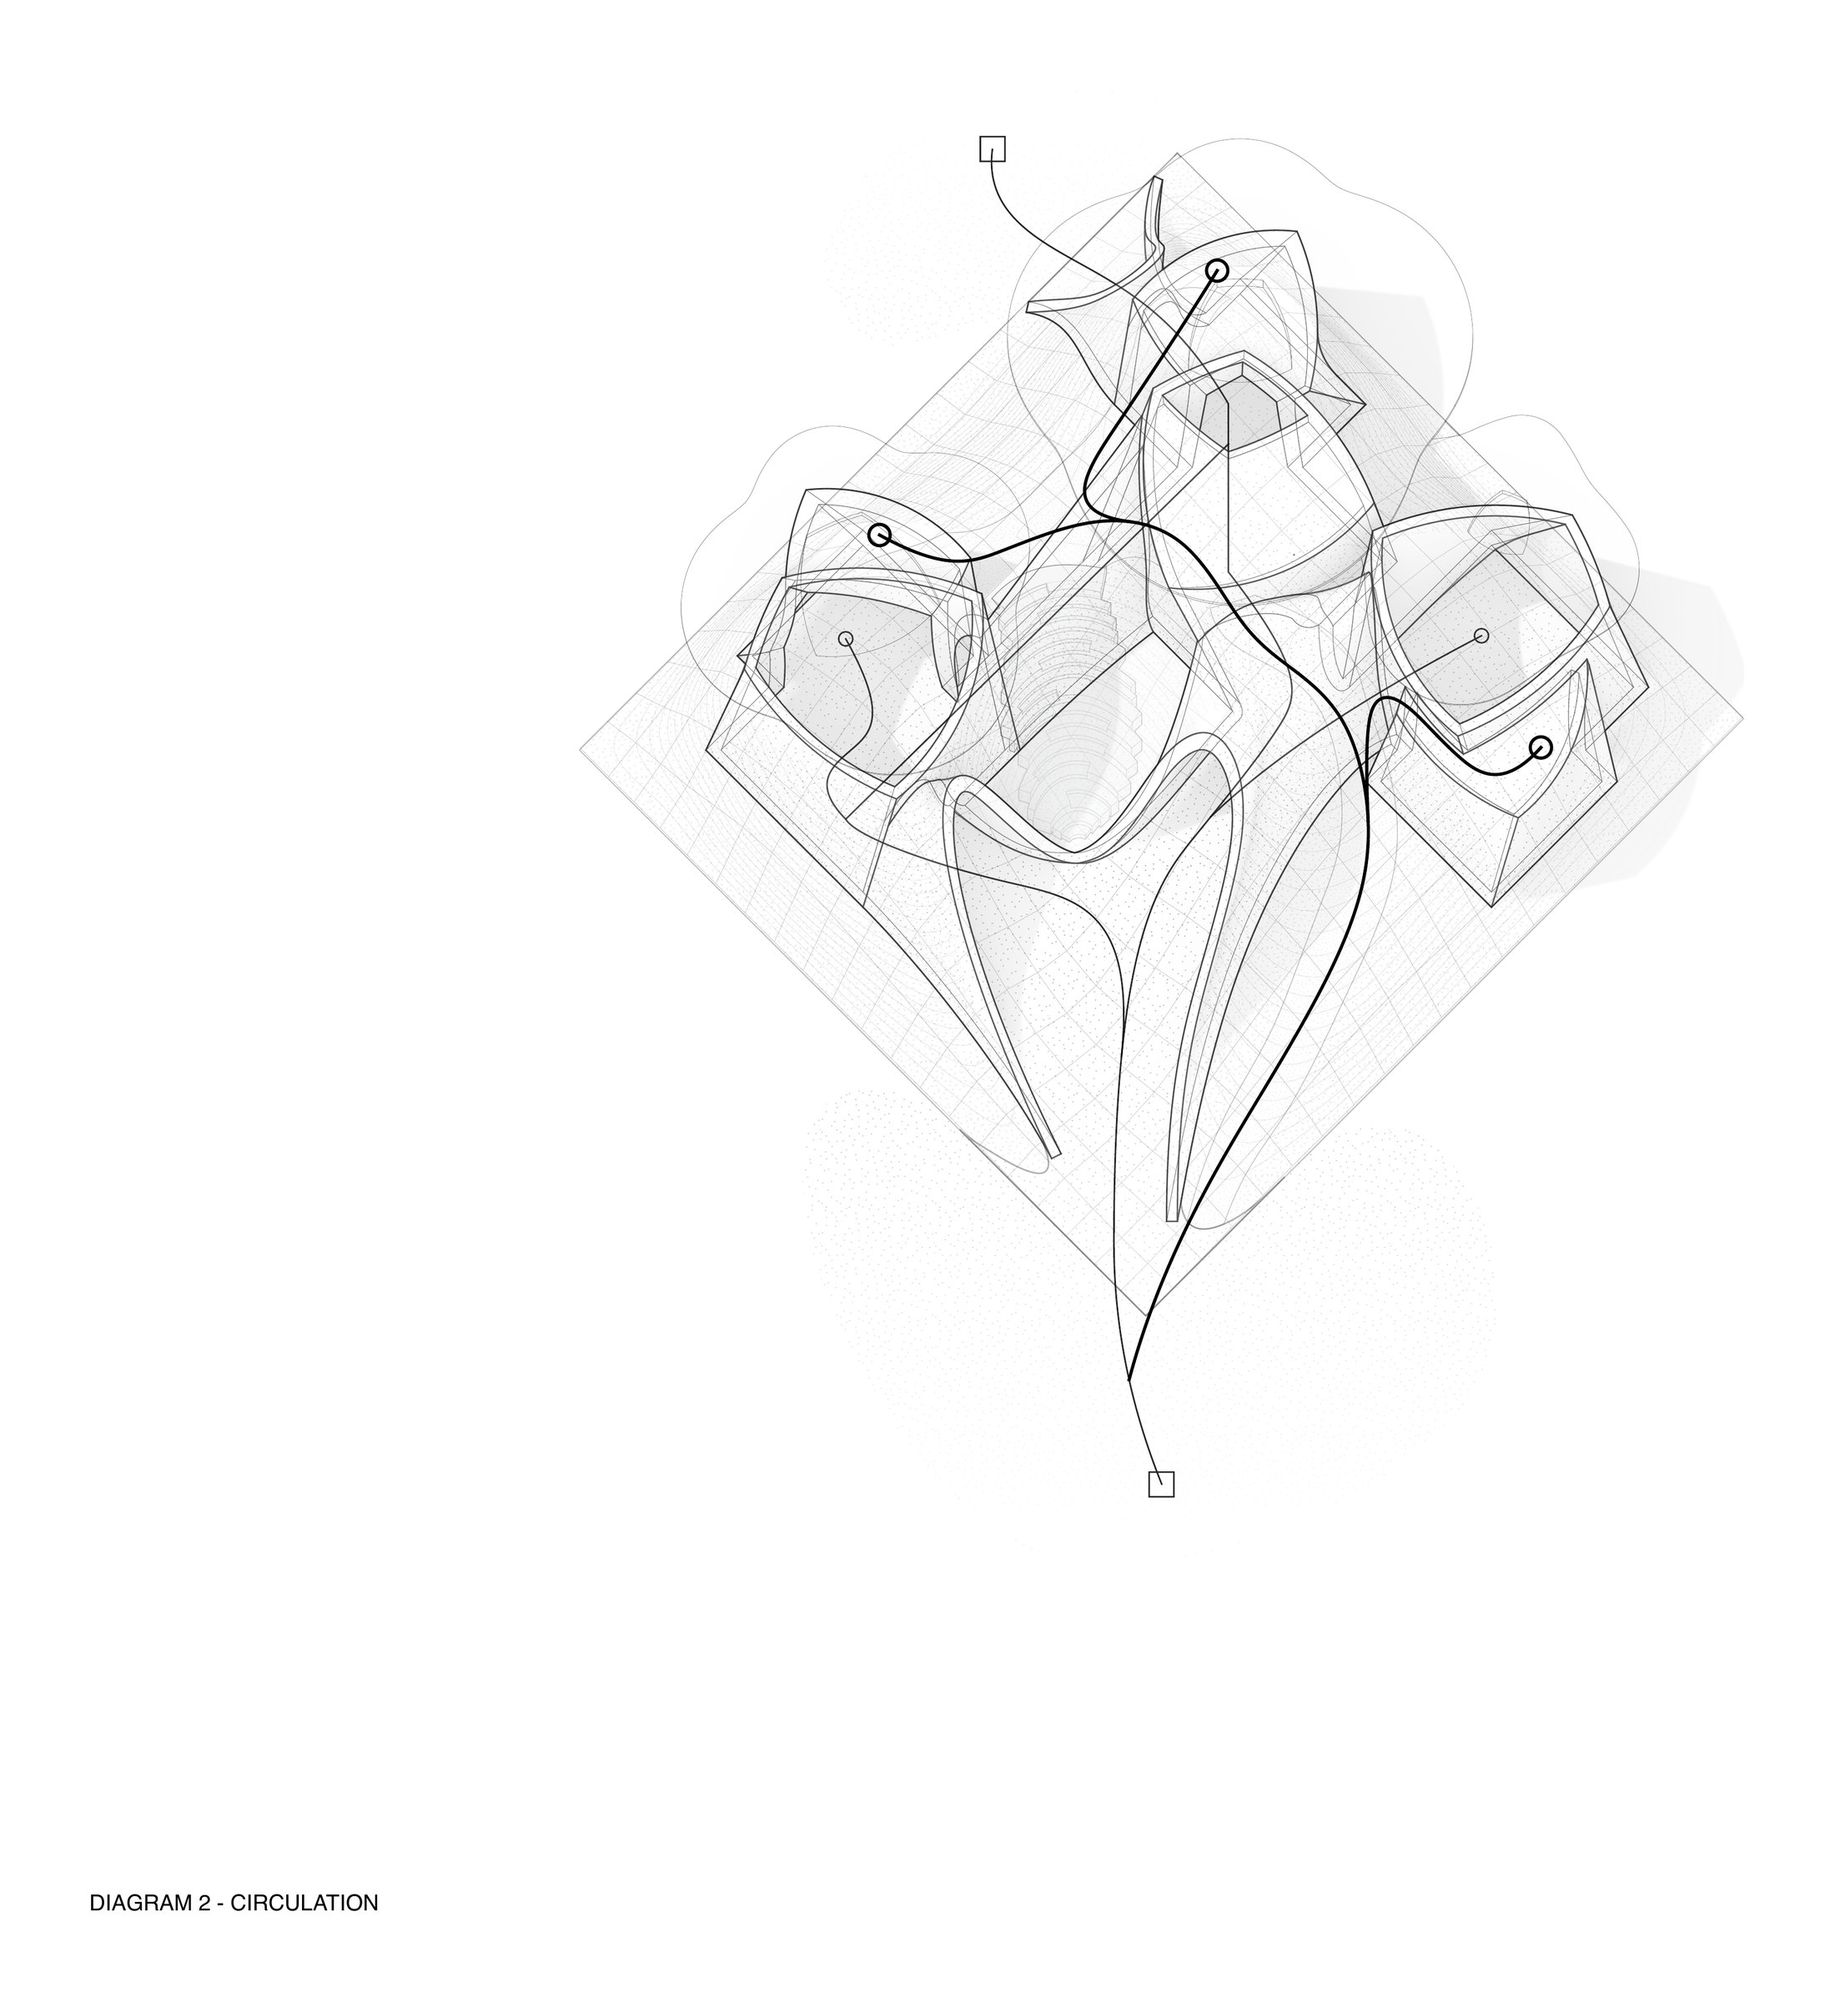
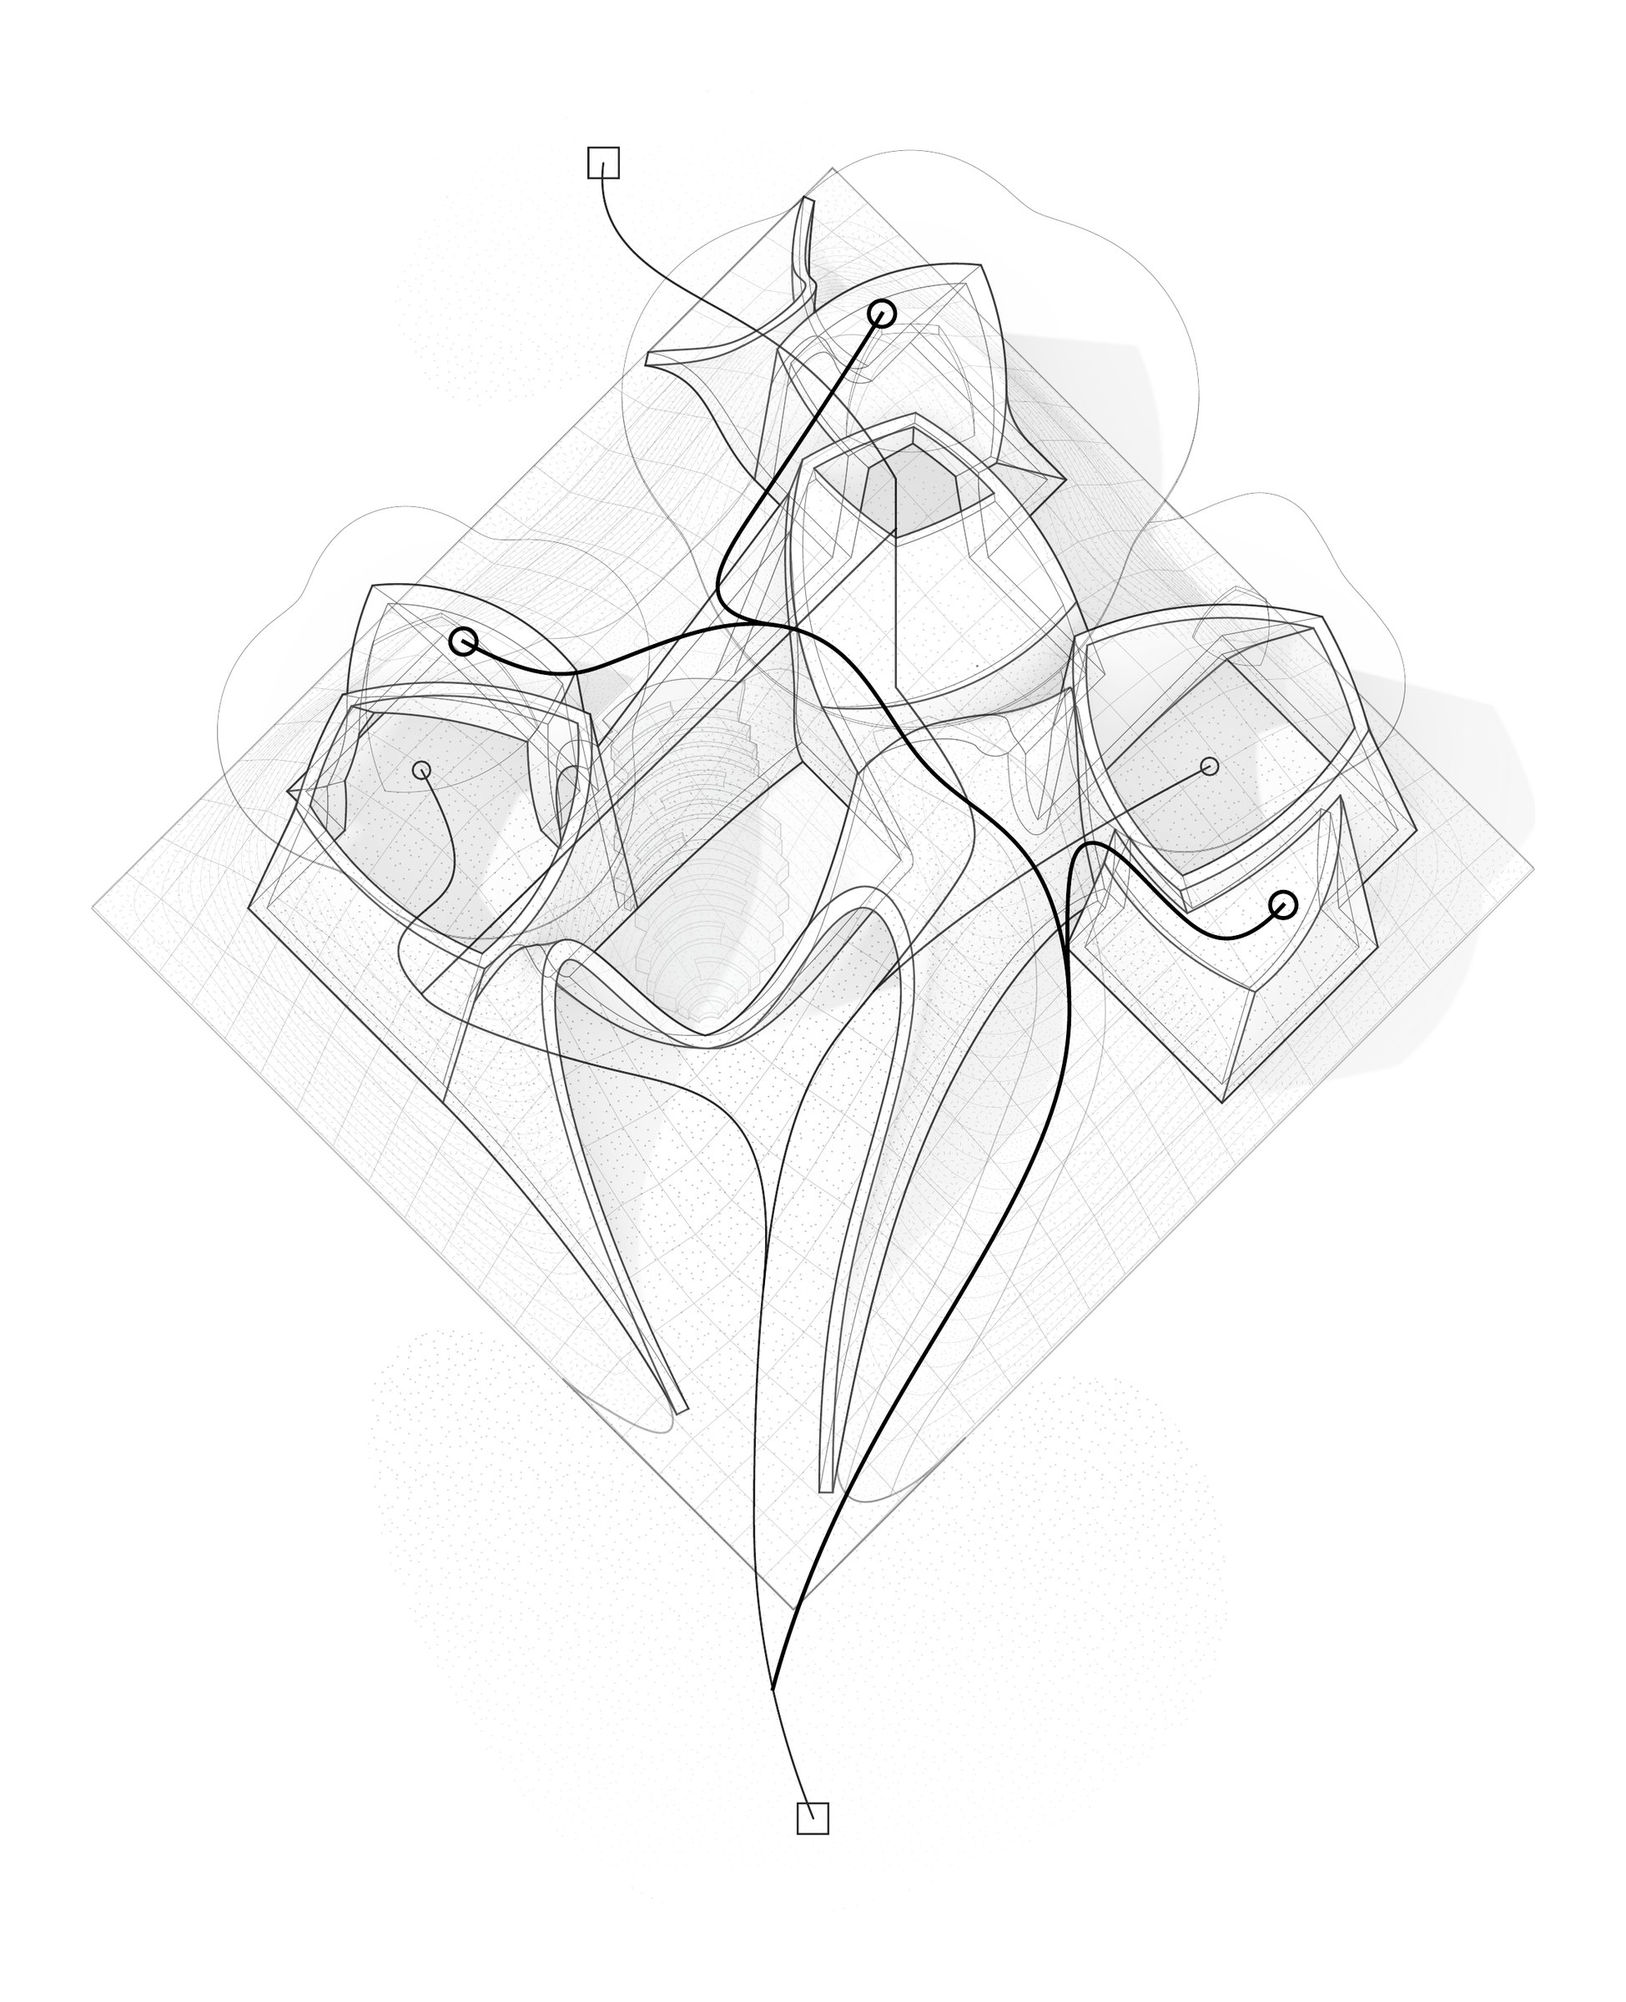
Remove labels from Menil diagrams and center them
Claude-Session: https://claude.ai/code/session_014P4HtxNjHqz1LRypPXgB5u

diff --git a/index.html b/index.html
@@ -374,7 +374,7 @@ const OTHER = [
 
 /* ---------- Rendering ---------- */
 /* Width / height of each image, used to give photos in the same row the same height. */
-const DIMS = {"cover-totem-bw": 0.713, "ext-composite-map": 1.016, "ext-hero": 1.001, "ext-line-1": 1.0, "ext-line-10": 1.0, "ext-line-1000": 1.0, "ext-materials": 1.009, "ext-night": 1.007, "ext-radial": 1.001, "ga-drawing-series": 1.0, "ga-final-1": 1.0, "ga-final-2": 1.0, "ga-hero": 1.5, "ga-model-series": 1.0, "ga-section-1": 1.0, "ga-section-2": 1.0, "int-axon": 0.6, "int-hero": 0.716, "int-light-plan": 0.433, "int-model-1": 1.508, "int-model-2": 1.022, "int-sections": 0.517, "menil-axon": 1.197, "menil-circulation": 0.916, "menil-hero": 1.011, "menil-hilltop-plan": 1.061, "menil-model-1": 1.007, "menil-model-2": 1.023, "menil-model-3": 1.015, "menil-model-4": 1.018, "menil-plan": 0.994, "menil-section-a": 1.78, "menil-section-b": 1.674, "menil-site-plan": 1.049, "menil-transformations": 0.8, "mfah-aerial": 1.0, "mfah-axon": 1.0, "mfah-cantilever": 1.0, "mfah-hero": 1.5, "mfah-plan-12": 0.816, "mfah-section": 1.518, "mfah-site-plan": 0.793, "totem-color": 0.71, "totem-detail": 0.71, "totem-hero": 0.714, "totem-plan-section": 0.621, "totem-unit": 0.621};
+const DIMS = {"cover-totem-bw": 0.713, "ext-composite-map": 1.016, "ext-hero": 1.001, "ext-line-1": 1.0, "ext-line-10": 1.0, "ext-line-1000": 1.0, "ext-materials": 1.009, "ext-night": 1.007, "ext-radial": 1.001, "ga-drawing-series": 1.0, "ga-final-1": 1.0, "ga-final-2": 1.0, "ga-hero": 1.5, "ga-model-series": 1.0, "ga-section-1": 1.0, "ga-section-2": 1.0, "int-axon": 0.6, "int-hero": 0.716, "int-light-plan": 0.433, "int-model-1": 1.508, "int-model-2": 1.022, "int-sections": 0.517, "menil-axon": 1.543, "menil-circulation": 0.812, "menil-hero": 1.011, "menil-hilltop-plan": 1.061, "menil-model-1": 1.007, "menil-model-2": 1.023, "menil-model-3": 1.015, "menil-model-4": 1.018, "menil-plan": 0.994, "menil-section-a": 1.78, "menil-section-b": 1.674, "menil-site-plan": 1.049, "menil-transformations": 0.541, "mfah-aerial": 1.0, "mfah-axon": 1.0, "mfah-cantilever": 1.0, "mfah-hero": 1.5, "mfah-plan-12": 0.816, "mfah-section": 1.518, "mfah-site-plan": 0.793, "totem-color": 0.71, "totem-detail": 0.71, "totem-hero": 0.714, "totem-plan-section": 0.621, "totem-unit": 0.621};
 const app = document.getElementById("app");
 const esc = s => String(s).replace(/[&<>"]/g, c => ({ "&": "&amp;", "<": "&lt;", ">": "&gt;", '"': "&quot;" }[c]));
 const pad = n => String(n).padStart(2, "0");
